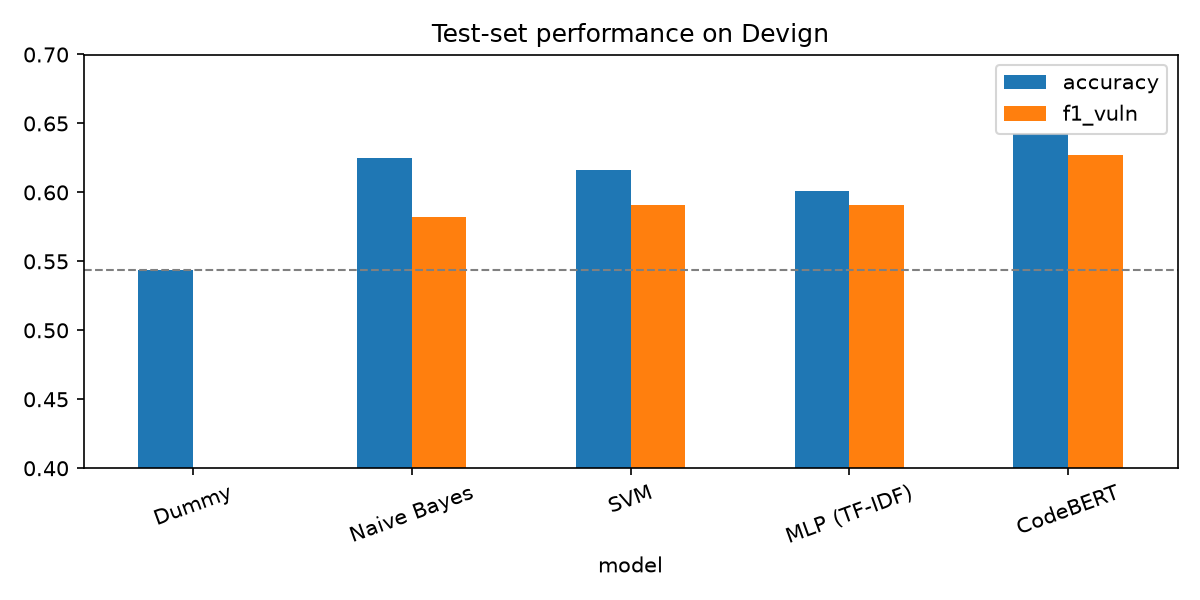
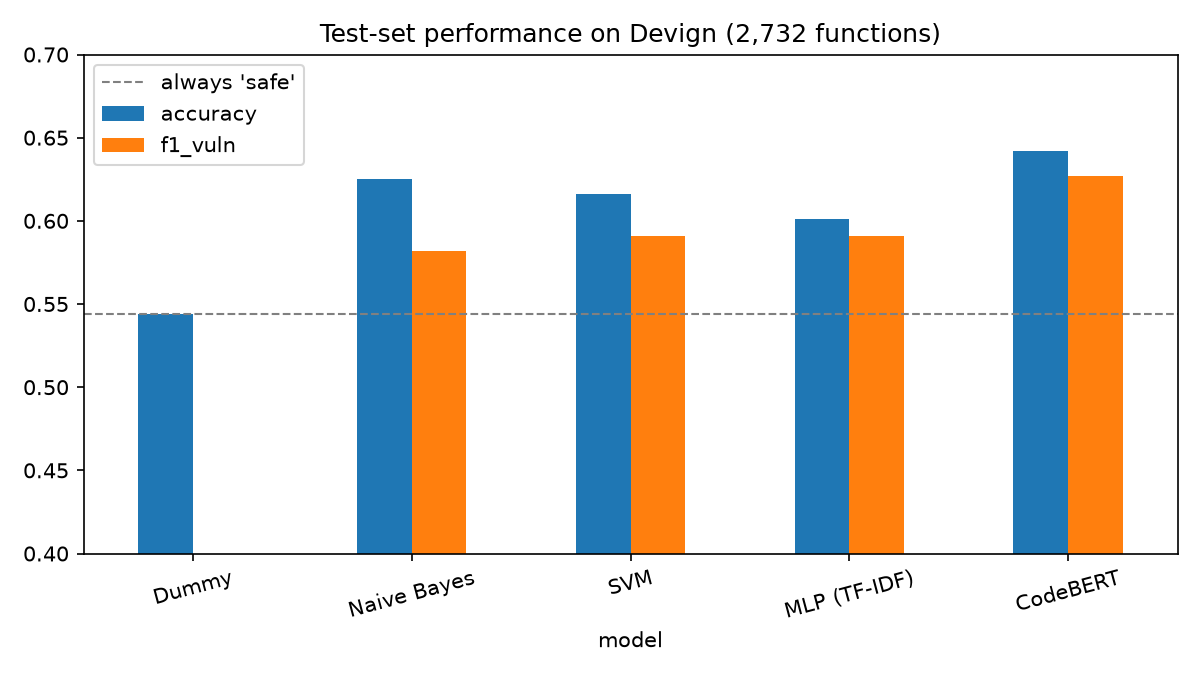
adding the remaining plots

diff --git a/README.md b/README.md
@@ -47,6 +47,9 @@ Test set (2,732 functions):
 | MLP on TF-IDF | 0.601 | 0.555 | 0.632 | 0.591 |
 | **CodeBERT (fine-tuned)** | **0.642** | 0.597 | **0.661** | **0.627** |
 
+![Model comparison](results/model_comparison.png)
+![Confusion matrices](results/confusion_matrices.png)
+
 How to read this:
 
 - With 2,732 test samples, the margin of error on accuracy is roughly +/-1.8 points. CodeBERT's lead (about 2 to 4 points on accuracy, 4 to 5 on F1) is suggestive, not conclusive.
@@ -66,6 +69,8 @@ Accuracy:
 | FFmpeg -> QEMU | 0.574 | 0.483 | 0.496 | 0.557 |
 | QEMU -> QEMU | 0.574 | 0.658 | 0.657 | 0.666 |
 | FFmpeg -> FFmpeg | 0.510 | 0.585 | 0.564 | 0.615 |
+
+![Cross-project accuracy](results/cross_project.png)
 
 Findings:
 
